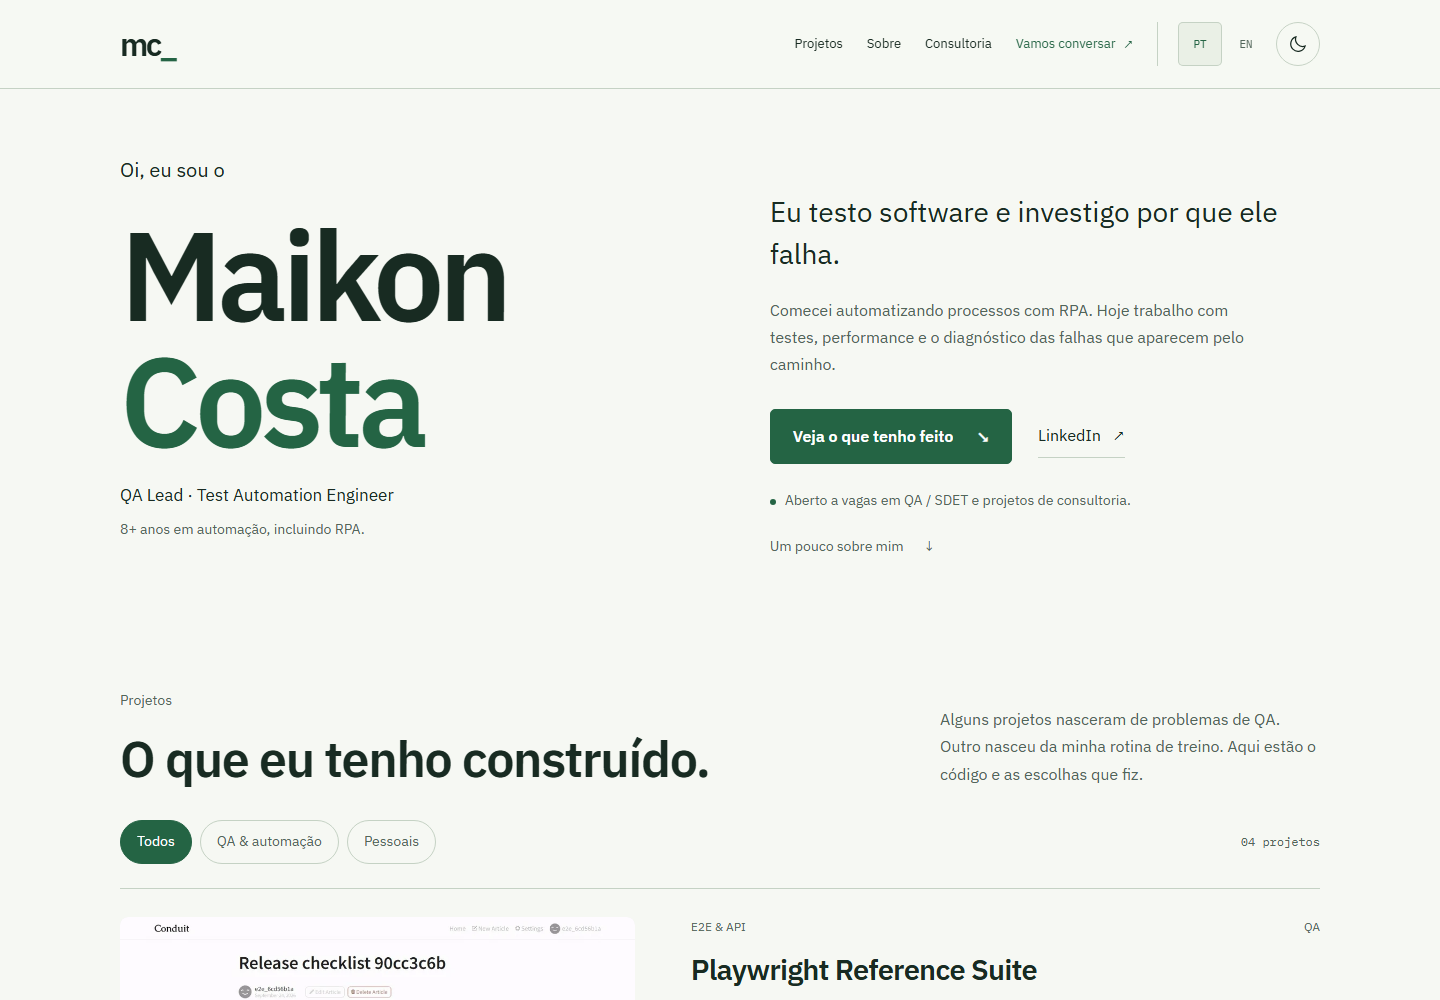
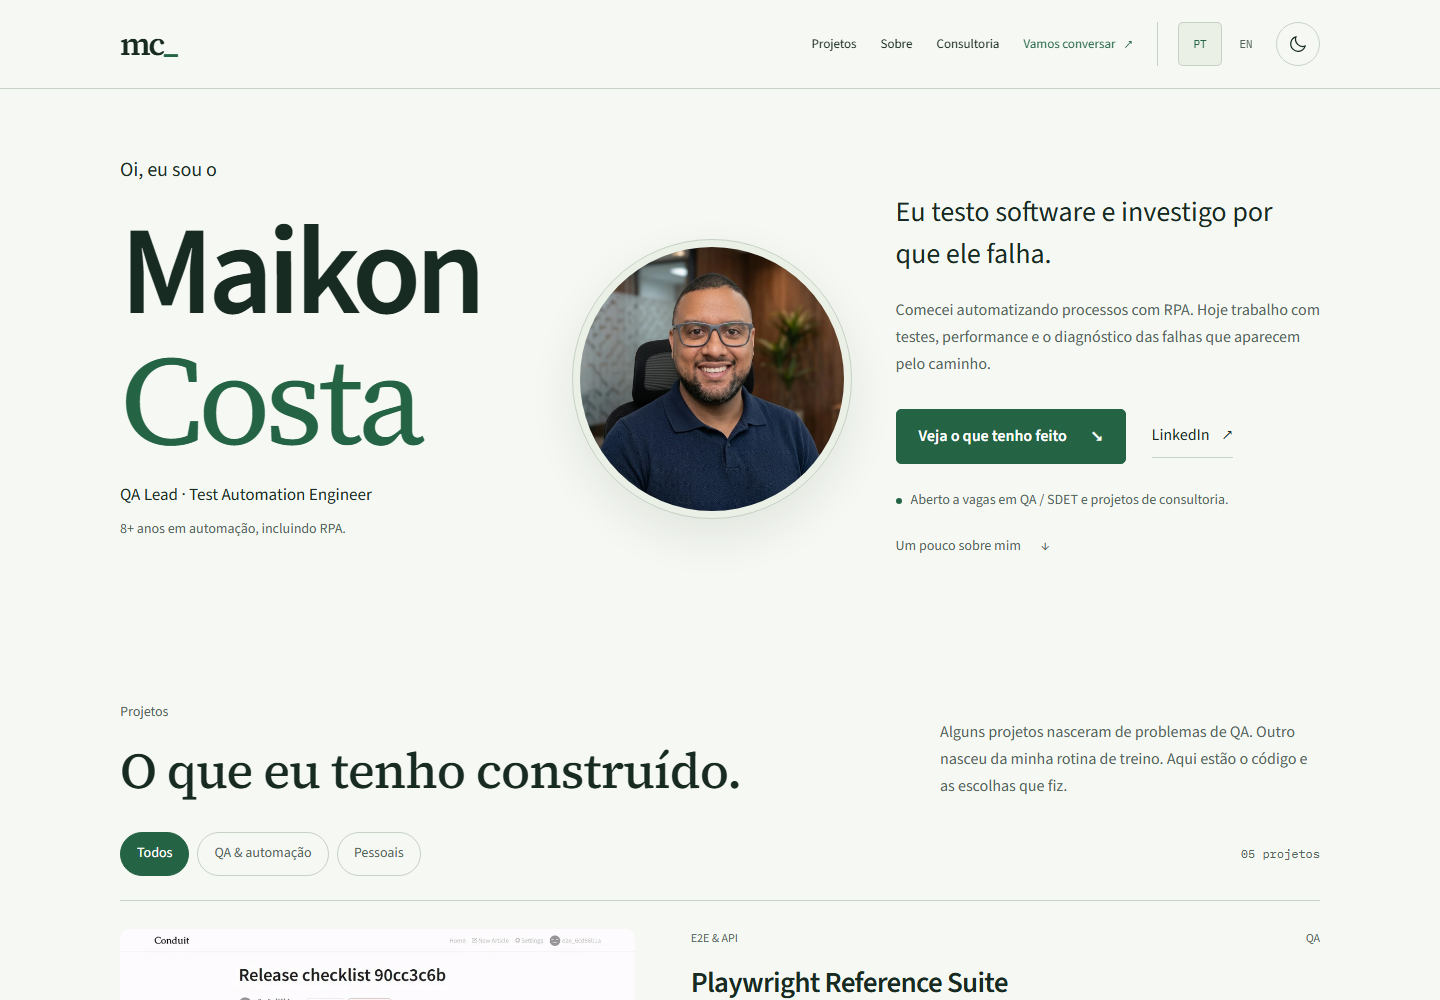
feat: showcase Java QA automation and improve social metadata
Add the private Java project's public summary and localized contact, update skills and documentation, and add canonical and social previews. Validated with qa-ci-local, 20 responsive combinations and 8 axe checks. Date: 2026-10-07 15:38:31 GMT-3.

diff --git a/index.html b/index.html
@@ -8,6 +8,18 @@
   <meta property="og:title" content="Maikon Costa — QA Lead & Test Automation Engineer">
   <meta property="og:description" content="Maikon Costa — QA Lead e Test Automation Engineer. Projetos, experiência e consultoria em qualidade de software.">
   <meta property="og:type" content="website">
+  <link rel="canonical" href="https://maikonfcosta.github.io/portfolio/">
+  <meta property="og:url" content="https://maikonfcosta.github.io/portfolio/">
+  <meta property="og:locale" content="pt_BR">
+  <meta property="og:image" content="https://maikonfcosta.github.io/portfolio/assets/social-preview.png">
+  <meta property="og:image:width" content="1200">
+  <meta property="og:image:height" content="630">
+  <meta property="og:image:alt" content="Maikon Costa, QA Lead e Test Automation Engineer">
+  <meta name="twitter:card" content="summary_large_image">
+  <meta name="twitter:title" content="Maikon Costa — QA Lead &amp; Test Automation Engineer">
+  <meta name="twitter:description" content="Projetos, experiência e consultoria em qualidade de software.">
+  <meta name="twitter:image" content="https://maikonfcosta.github.io/portfolio/assets/social-preview.png">
+  <meta name="twitter:image:alt" content="Maikon Costa, QA Lead e Test Automation Engineer">
   <title>Maikon Costa · QA, automação & consultoria</title>
   <link rel="icon" href="assets/favicon.svg" type="image/svg+xml">
   <script src="assets/preferences.js"></script>
@@ -60,7 +72,7 @@
 
     <section id="projetos" class="section container" aria-labelledby="projects-title">
       <div class="section-heading"><div><p class="eyebrow">Projetos</p><h2 id="projects-title">O que eu tenho construído.</h2></div><p>Alguns projetos nasceram de problemas de QA. Outro nasceu da minha rotina de treino. Aqui estão o código e as escolhas que fiz.</p></div>
-      <div class="project-toolbar"><div class="filters" role="group" aria-label="Filtrar projetos" hidden><button type="button" data-filter="all" aria-pressed="true">Todos</button><button type="button" data-filter="qa" aria-pressed="false">QA & automação</button><button type="button" data-filter="personal" aria-pressed="false">Pessoais</button></div><span id="project-count" class="mono muted" role="status" aria-live="polite">04 projetos</span></div>
+      <div class="project-toolbar"><div class="filters" role="group" aria-label="Filtrar projetos" hidden><button type="button" data-filter="all" aria-pressed="true">Todos</button><button type="button" data-filter="qa" aria-pressed="false">QA & automação</button><button type="button" data-filter="personal" aria-pressed="false">Pessoais</button></div><span id="project-count" class="mono muted" role="status" aria-live="polite">05 projetos</span></div>
       <div class="projects-grid">
         <article class="project-card featured-case" data-category="qa">
           <figure class="case-image"><img src="assets/evidence/conduit-journey.webp" width="960" height="675" loading="lazy" alt="Artigo publicado no Conduit durante uma execução E2E"><figcaption>Jornada real gravada pela suíte · ambiente de demonstração</figcaption></figure>      <a class="work-preview" href="https://maikonfcosta.github.io/playwright-reference-suite/" aria-label="Abrir relatório público da suíte Playwright">
@@ -76,6 +88,16 @@
         <article class="project-card" data-category="qa">
           <div class="project-content"><div class="project-meta"><span>IA aplicada</span><span>QA</span></div><h3>AI CI Triage</h3><p>Uma GitHub Action que cruza falha, diff e código para explicar uma causa provável. A IA apoia o diagnóstico; regras determinísticas controlam o gate.</p><p class="project-proof">Demonstração pública com arquivo, linha e confiança, atualizando o mesmo comentário no PR.</p><ul class="tags" aria-label="Tecnologias"><li>TypeScript</li><li>GitHub Actions</li><li>LLM</li></ul><div class="project-links"><a href="https://github.com/maikonfcosta/ai-ci-triage">Explorar projeto <span aria-hidden="true">↗</span></a><a href="https://github.com/maikonfcosta/playwright-reference-suite/pull/1#issuecomment-5896070196">Ver diagnóstico no PR <span aria-hidden="true">↗</span></a></div></div>
         </article>
+        <article id="qa-automation-java" class="project-card" data-category="qa">
+          <div class="project-content">
+            <div class="project-meta"><span>UI &amp; API / Java</span><span>QA</span></div>
+            <h3>QA Automation Java</h3>
+            <p>Uma suíte demonstrativa com Selenium e RestAssured sobre uma aplicação local com dados sintéticos. Page Objects isolam a interação com a interface; builders e um cliente de API organizam os dados e as requisições. O pipeline preserva relatórios Surefire e envia métricas de execução ao Datadog.</p>
+            <p class="project-proof">Quatro cenários: login válido e inválido, criação de usuário e rejeição de e-mail vazio. Execução registrada em 05/10/2026: 4 testes Java aprovados, sem falhas, erros ou ignorados; 6 testes Python do coletor de métricas aprovados. Código em repositório privado.</p>
+            <ul class="tags" aria-label="Tecnologias"><li>Java 21</li><li>Selenium</li><li>RestAssured</li><li>JUnit 5</li><li>Maven</li><li>GitHub Actions</li><li>Datadog</li></ul>
+            <div class="project-links"><a href="mailto:maikonfcosta@gmail.com?subject=Quero%20conhecer%20o%20QA%20Automation%20Java">Conversar sobre a automação Java <span aria-hidden="true">↗</span></a></div>
+          </div>
+        </article>
         <article class="project-card" data-category="personal">
           <div class="project-content"><div class="project-meta"><span>Feito para a minha rotina</span><span>PESSOAL</span></div><h3>TrackFit PRO</h3><p>Uma necessidade da minha rotina virou produto: acompanhar treinos, progressão de carga e evolução com uma experiência pensada para o celular.</p><p class="project-proof">PWA com suporte offline, perfis independentes e sincronização em nuvem.</p><ul class="tags" aria-label="Tecnologias"><li>React</li><li>Vite</li><li>Firebase</li></ul><div class="project-links"><a href="mailto:maikonfcosta@gmail.com?subject=Quero%20conhecer%20o%20TrackFit%20PRO">Conversar sobre o projeto <span aria-hidden="true">↗</span></a></div></div>
         </article>
@@ -86,7 +108,7 @@
     <section id="sobre" class="about-section section" aria-labelledby="about-title"><div class="container about-grid">
       <div><p class="eyebrow">Sobre mim</p><h2 id="about-title">Antes dos testes, os processos.</h2><div class="personal-note"><span class="mono">Fora do teclado</span><p>Valorant, board games e séries.<br>Também tem espaço para jogar e desligar um pouco.</p></div></div>
       <div class="about-copy"><p>Sou <strong>Maikon Costa</strong>, QA Lead e Test Automation Engineer, com mais de oito anos em automação. Comecei em RPA e levei essa experiência para a engenharia de qualidade de software.</p><p>A base em RPA me acostumou a olhar para o trabalho repetitivo e perguntar o que poderia ser automatizado. Em QA, essa pergunta ganhou outra parte: o que esse teste realmente consegue detectar?</p><p>Os projetos desta página são um jeito de colocar essas perguntas à prova. Deixo o código aberto quando posso, junto das decisões e dos limites de cada solução.</p><div class="language-note mono">PORTUGUÊS NATIVO <span aria-hidden="true">/</span> INGLÊS B2</div></div>
-      <div class="toolbox"><h3>Minha caixa de ferramentas</h3><div class="toolbox-grid"><div><h4>Automação & performance</h4><p>Playwright · Vitest · xUnit · Testing Library · Locust</p></div><div><h4>Código & entrega</h4><p>TypeScript · Python · SQL · Docker · Azure DevOps · Git</p></div><div><h4>Observabilidade & IA</h4><p>Datadog · OpenTelemetry · LLMs · MCP</p></div><div><h4>Minha base em RPA</h4><p>UiPath · Automation Anywhere · Power Automate</p></div></div></div>
+      <div class="toolbox"><h3>Minha caixa de ferramentas</h3><div class="toolbox-grid"><div><h4>Automação & performance</h4><p>Playwright · Selenium · RestAssured · JUnit 5 · Vitest · xUnit · Testing Library · Locust</p></div><div><h4>Código & entrega</h4><p>TypeScript · Python · Java · SQL · Maven · Docker · GitHub Actions · Azure DevOps · Git</p></div><div><h4>Observabilidade & IA</h4><p>Datadog · OpenTelemetry · LLMs · MCP</p></div><div><h4>Minha base em RPA</h4><p>UiPath · Automation Anywhere · Power Automate</p></div></div></div>
     </div></section>
 
     <section id="consultoria" class="section container" aria-labelledby="consulting-title">

diff --git a/assets/locales.js b/assets/locales.js
@@ -212,5 +212,9 @@ window.portfolioTranslations = Object.freeze({
   "O que estou estudando": "What I’m studying",
   "Revisamos os riscos do produto e escolhemos as jornadas que precisam ser testadas primeiro.": "We review the product’s risks and choose which journeys need to be tested first.",
   "Investigo as falhas recorrentes, reviso os testes E2E e de API e ajusto sua execução na pipeline.": "I investigate recurring failures, review E2E and API tests and adjust how they run in the pipeline.",
-  "Definimos uma carga representativa, medimos o comportamento do sistema e investigamos os gargalos.": "We define a representative workload, measure the system’s behavior and investigate bottlenecks."
+  "Definimos uma carga representativa, medimos o comportamento do sistema e investigamos os gargalos.": "We define a representative workload, measure the system’s behavior and investigate bottlenecks.",
+  "UI & API / Java": "UI & API / Java",
+  "Uma suíte demonstrativa com Selenium e RestAssured sobre uma aplicação local com dados sintéticos. Page Objects isolam a interação com a interface; builders e um cliente de API organizam os dados e as requisições. O pipeline preserva relatórios Surefire e envia métricas de execução ao Datadog.": "A demonstration suite using Selenium and RestAssured against a local application with synthetic data. Page Objects isolate UI interactions; builders and an API client organize data and requests. The pipeline preserves Surefire reports and sends execution metrics to Datadog.",
+  "Quatro cenários: login válido e inválido, criação de usuário e rejeição de e-mail vazio. Execução registrada em 05/10/2026: 4 testes Java aprovados, sem falhas, erros ou ignorados; 6 testes Python do coletor de métricas aprovados. Código em repositório privado.": "Four scenarios: valid and invalid login, user creation and rejection of an empty email. Recorded run: October 5, 2026. All 4 Java tests passed, with no failures, errors or skipped tests; all 6 Python tests for the metrics collector passed. Code in a private repository.",
+  "Conversar sobre a automação Java": "Ask about Java automation"
 });

diff --git a/assets/main.js b/assets/main.js
@@ -71,6 +71,12 @@
     document.querySelector('meta[name="description"]').content = description;
     document.querySelector('meta[property="og:title"]').content = 'Maikon Costa — QA Lead & Test Automation Engineer';
     document.querySelector('meta[property="og:description"]').content = description;
+    document.querySelector('meta[property="og:locale"]').content = english ? 'en_US' : 'pt_BR';
+    document.querySelector('meta[name="twitter:description"]').content = description;
+    const imageAlt = english ? 'Maikon Costa, QA Lead and Test Automation Engineer' : 'Maikon Costa, QA Lead e Test Automation Engineer';
+    document.querySelector('meta[property="og:image:alt"]').content = imageAlt;
+    document.querySelector('meta[name="twitter:image:alt"]').content = imageAlt;
+    document.querySelector('#qa-automation-java .project-links a').href = `mailto:maikonfcosta@gmail.com?subject=${encodeURIComponent(english ? 'Tell me about QA Automation Java' : 'Quero conhecer o QA Automation Java')}`;
     const personalContact = document.querySelector('.project-card[data-category="personal"] .project-links a');
     personalContact.href = `mailto:maikonfcosta@gmail.com?subject=${encodeURIComponent(english ? 'Tell me about TrackFit PRO' : 'Quero conhecer o TrackFit PRO')}`;
     const contactSubjects = english ? ['QA opportunity', 'Quality consulting'] : ['Oportunidade em QA', 'Consultoria em qualidade'];

diff --git a/tests/smoke.py b/tests/smoke.py
@@ -19,12 +19,12 @@ def run():
         expect(page.locator('.hero-role')).to_contain_text('QA Lead')
         assert page.locator('.work-preview img').evaluate('(img) => img.complete && img.naturalWidth > 0')
         expect(page.get_by_role("button", name="Menu de navegação")).to_be_hidden()
-        expect(page.locator(".project-card:visible")).to_have_count(4)
+        expect(page.locator(".project-card:visible")).to_have_count(5)
         page.get_by_role("button", name="Pessoais", exact=True).click()
         expect(page.locator(".project-card:visible")).to_have_count(1)
         expect(page.get_by_role("heading", name="TrackFit PRO")).to_be_visible()
         page.get_by_role("button", name="QA & automação", exact=True).click()
-        expect(page.locator(".project-card:visible")).to_have_count(3)
+        expect(page.locator(".project-card:visible")).to_have_count(4)
         page.get_by_role("button", name="Todos", exact=True).click()
         for anchor in page.locator('a[href^="#"]').all():
             target = anchor.get_attribute("href")
@@ -56,7 +56,7 @@ def run():
         assert not errors, errors
         no_js = browser.new_page(java_script_enabled=False, viewport={"width": 390, "height": 844})
         no_js.goto(URL)
-        expect(no_js.locator(".project-card:visible")).to_have_count(4)
+        expect(no_js.locator(".project-card:visible")).to_have_count(5)
         expect(no_js.get_by_role("navigation").get_by_role("link", name="Projetos", exact=True)).to_be_visible()
         no_js.close()
         browser.close()

diff --git a/tests/preferences.py b/tests/preferences.py
@@ -32,6 +32,8 @@ def run():
             expect(page.locator('.hero-role')).to_contain_text('QA Lead')
             expect(page.locator('.hero-description')).to_have_text('I test software and investigate why it fails.')
             expect(page.locator('.case-story')).to_contain_text('ten most-used tags')
+            expect(page.locator('#qa-automation-java')).to_contain_text('Four scenarios')
+            expect(page.locator('#qa-automation-java')).to_contain_text('Recorded run: October 5, 2026')
             expect(page.locator('.case-story code').first).to_have_text('/api/tags')
             expect(page.locator('.case-story code').last).to_have_text('?tag=')
             page.locator('summary').click()

diff --git a/README.md b/README.md
@@ -21,9 +21,9 @@ As fontes Source Serif 4, Source Sans 3 e IBM Plex Mono são carregadas pelo Goo
 
 PT é o idioma inicial. O tema segue o sistema até a escolha manual. Botões PT/EN e tema salvam preferências quando o armazenamento está disponível. Idioma inclui textos, metadados, rótulos acessíveis e assunto do contato do projeto pessoal. Preferências em file:// variam por navegador; prefira HTTP para a avaliação de persistência. Sem armazenamento, os controles seguem funcionais na visita.
 
-Glassmorphism é limitado ao cabeçalho; há fundo opaco em navegadores sem suporte a backdrop-filter. Animações são pontuais e respeitam prefers-reduced-motion. Nome e cargo lideram a apresentação, com cases verificáveis e contatos específicos para vagas e consultoria. A foto pessoal pode ser acrescentada na abertura quando fornecida, preservando o relatório na seção de projetos.
+Glassmorphism é limitado ao cabeçalho; há fundo opaco em navegadores sem suporte a backdrop-filter. Animações são pontuais e respeitam prefers-reduced-motion. Nome e cargo lideram a apresentação, com cases verificáveis e contatos específicos para vagas e consultoria. A foto fornecida pelo autor está na abertura; o relatório permanece na seção de projetos.
 
-Não publicado. Para publicar no futuro, definir repositório e endereço final, configurar metadados de compartilhamento com URL definitiva e selecionar a pasta de publicação sem alterar o README de perfil.
+Publicado no GitHub Pages em https://maikonfcosta.github.io/portfolio/. A página inclui URL canônica, Open Graph e Twitter Card com imagem de compartilhamento em assets/social-preview.png.
 
 Abertura com nome em duas linhas e apresentação direta. Case principal conta a investigação do contrato de tags do Conduit, documentada no README da suíte. Projetos secundários em linhas compactas e TrackFit em área própria. Os resultados ficam junto da trajetória, e os serviços partem das dúvidas do cliente. Direção em docs/personal-direction.md.
 
@@ -32,3 +32,7 @@ Abertura com nome em duas linhas e apresentação direta. Case principal conta a
 Repositório público: https://github.com/maikonfcosta/portfolio. Site: https://maikonfcosta.github.io/portfolio/. Execute ./scripts/qa-ci-local.ps1 antes de commit ou push; requer Python, Playwright com Chromium e Node. A auditoria axe consulta o registro npm.
 
 A foto de perfil é fornecida pelo autor, otimizada em WebP e armazenada em assets/maikon-costa.webp.
+
+## Atualização de conteúdo — 07/10/2026
+
+Cinco projetos: quatro de QA e um pessoal. QA Automation Java apresenta arquitetura, cenários sintéticos e resultados históricos registrados em 05/10/2026; o código é privado, por isso o case usa contato em vez de um link que exige acesso. Competências incluem Java, Selenium, RestAssured, JUnit 5, Maven e GitHub Actions. O diretório local qa-automation-java/ é independente e não faz parte desta atualização do site.

diff --git a/docs/progress.md b/docs/progress.md
@@ -38,3 +38,12 @@ Revisão tipográfica após verificar Pages: IBM Plex Sans carregava corretament
 
 Foto enviada pelo usuário integrada como WebP otimizado na abertura. Composição em três colunas no desktop, duas no tablet e fluxo vertical no celular. Descrição acessível localizada PT/EN. Capturas prévias em 390px, 768px e 1440px conferidas visualmente.
 Retrato refinado para formato circular com aro jade discreto, sombra leve e enquadramento 1:1. Preview visual revisto em 390px e 1440px; versão desktop centralizada entre identidade e apresentação. Cache CSS renovado para o Pages.
+
+## Atualização — 07/10/2026 15:38 GMT-3
+
+- Incluído QA Automation Java com arquitetura, quatro cenários sintéticos e execução histórica de 05/10/2026 (4 testes Java e 6 Python aprovados). Sem link ao repositório privado ou publicação de documentação interna.
+- Competências atualizadas; cinco projetos com filtros (4 QA, 1 pessoal), tradução PT/EN e assuntos de contato localizados.
+- Canonical, og:url, og:locale, imagem PNG 1200 × 630 e Twitter Card adicionados. Imagem capturada da abertura atual, conferida visualmente.
+- README corrigido quanto à publicação e retrato. Planos anteriores preservados como histórico e acrescidos do estado atual.
+- qa-ci-local passou: sintaxe JS, smoke, preferências em 20 combinações responsivas, oito auditorias axe sem violações automatizadas e git diff --check. Revisão das capturas de compartilhamento e do case mobile concluída.
+- Publicação destinada ao repositório portfolio, branch main e raiz, conforme configuração Pages verificada. Pasta qa-automation-java/ e docs/qa-automation-java-design.md preexistentes ficam fora do commit.

diff --git a/docs/findings.md b/docs/findings.md
@@ -18,3 +18,7 @@ Paleta final grafite + jade: dark bg #111715, surface #1b2520, accent #91d5ae; l
 Idioma preserva os nós originais, sem innerHTML nem acesso remoto para traduções; localStorage protegido por try/catch. Preferência de tema aplicada antes do CSS. IntersectionObserver revela conteúdo sem loop de scroll; elementos focados por teclado são revelados imediatamente. Movimento reduzido desativa animações, inclusive se a preferência mudar durante a visita.
 
 Documentação: https://developer.mozilla.org/en-US/docs/Web/CSS/Reference/Properties/backdrop-filter ; https://developer.mozilla.org/en-US/docs/Web/API/Intersection_Observer_API ; https://developer.mozilla.org/en-US/docs/Web/API/Window/localStorage . Validação complementar com axe-core 4.10.3, sem instalação de dependência.
+
+## Revisão — 07/10/2026
+
+Publicado corresponde ao último commit 14c491f, após normalizar CRLF/LF. QA Automation Java foi identificado pela implementação e documentação locais: quatro cenários Java e seis testes Python, com execução histórica registrada em 05/10/2026. Repositório privado: case não deve apontar para código/pipeline inacessíveis. Não publicar credenciais, IDs de cartões ou documentação interna; texto do case contém somente arquitetura e dados sintéticos.

diff --git a/docs/portfolio-update-plan.md b/docs/portfolio-update-plan.md
@@ -1,0 +1,13 @@
+# Atualização do portfólio — 07/10/2026
+
+Escopo aprovado: case QA Automation Java, competências, metadados e documentação. Manter layout editorial, PT/EN e temas. Código Java privado: apresentar somente resumo técnico e resultados históricos com dados sintéticos, sem links inacessíveis ou exportação da documentação interna.
+
+- [x] Conferir arquitetura e evidências locais de 05/10/2026.
+- [x] Acrescentar case e traduções; atualizar contagens nos checks existentes.
+- [x] Completar canonical, Open Graph e Twitter Card com imagem da abertura.
+- [x] Corrigir README e registrar estado atual nos planos/progresso.
+- [x] Executar qa-ci-local e revisar case em desktop/mobile.
+
+Arquivos: index.html, assets/locales.js, assets/main.js, assets/social-preview.png, README.md, docs/task_plan.md, docs/progress.md, docs/findings.md, tests/smoke.py, tests/preferences.py.
+
+Aceite: cinco projetos, quatro QA e um pessoal; case traduzido e disponível sem JavaScript; resultado datado sem simular execução atual; imagem 1200 × 630; nenhuma alteração no projeto Java existente.

diff --git a/docs/task_plan.md b/docs/task_plan.md
@@ -25,3 +25,7 @@ Apresentação, resultados contextualizados, projetos com filtros, sobre, compet
 - [x] Apresentação direta, composição variada e relato técnico real.
 - [x] Tradução e verificação visual do novo conteúdo.
 - [x] Navegação, filtros, preferências e acessibilidade automatizada verificados.
+
+## Estado atual — 07/10/2026
+
+Site publicado no GitHub Pages; retrato integrado. Arquivo e listas anteriores registram o escopo histórico. Implementação atual usa assets/professional.css. Atualização de conteúdo e metadados em portfolio-update-plan.md.
